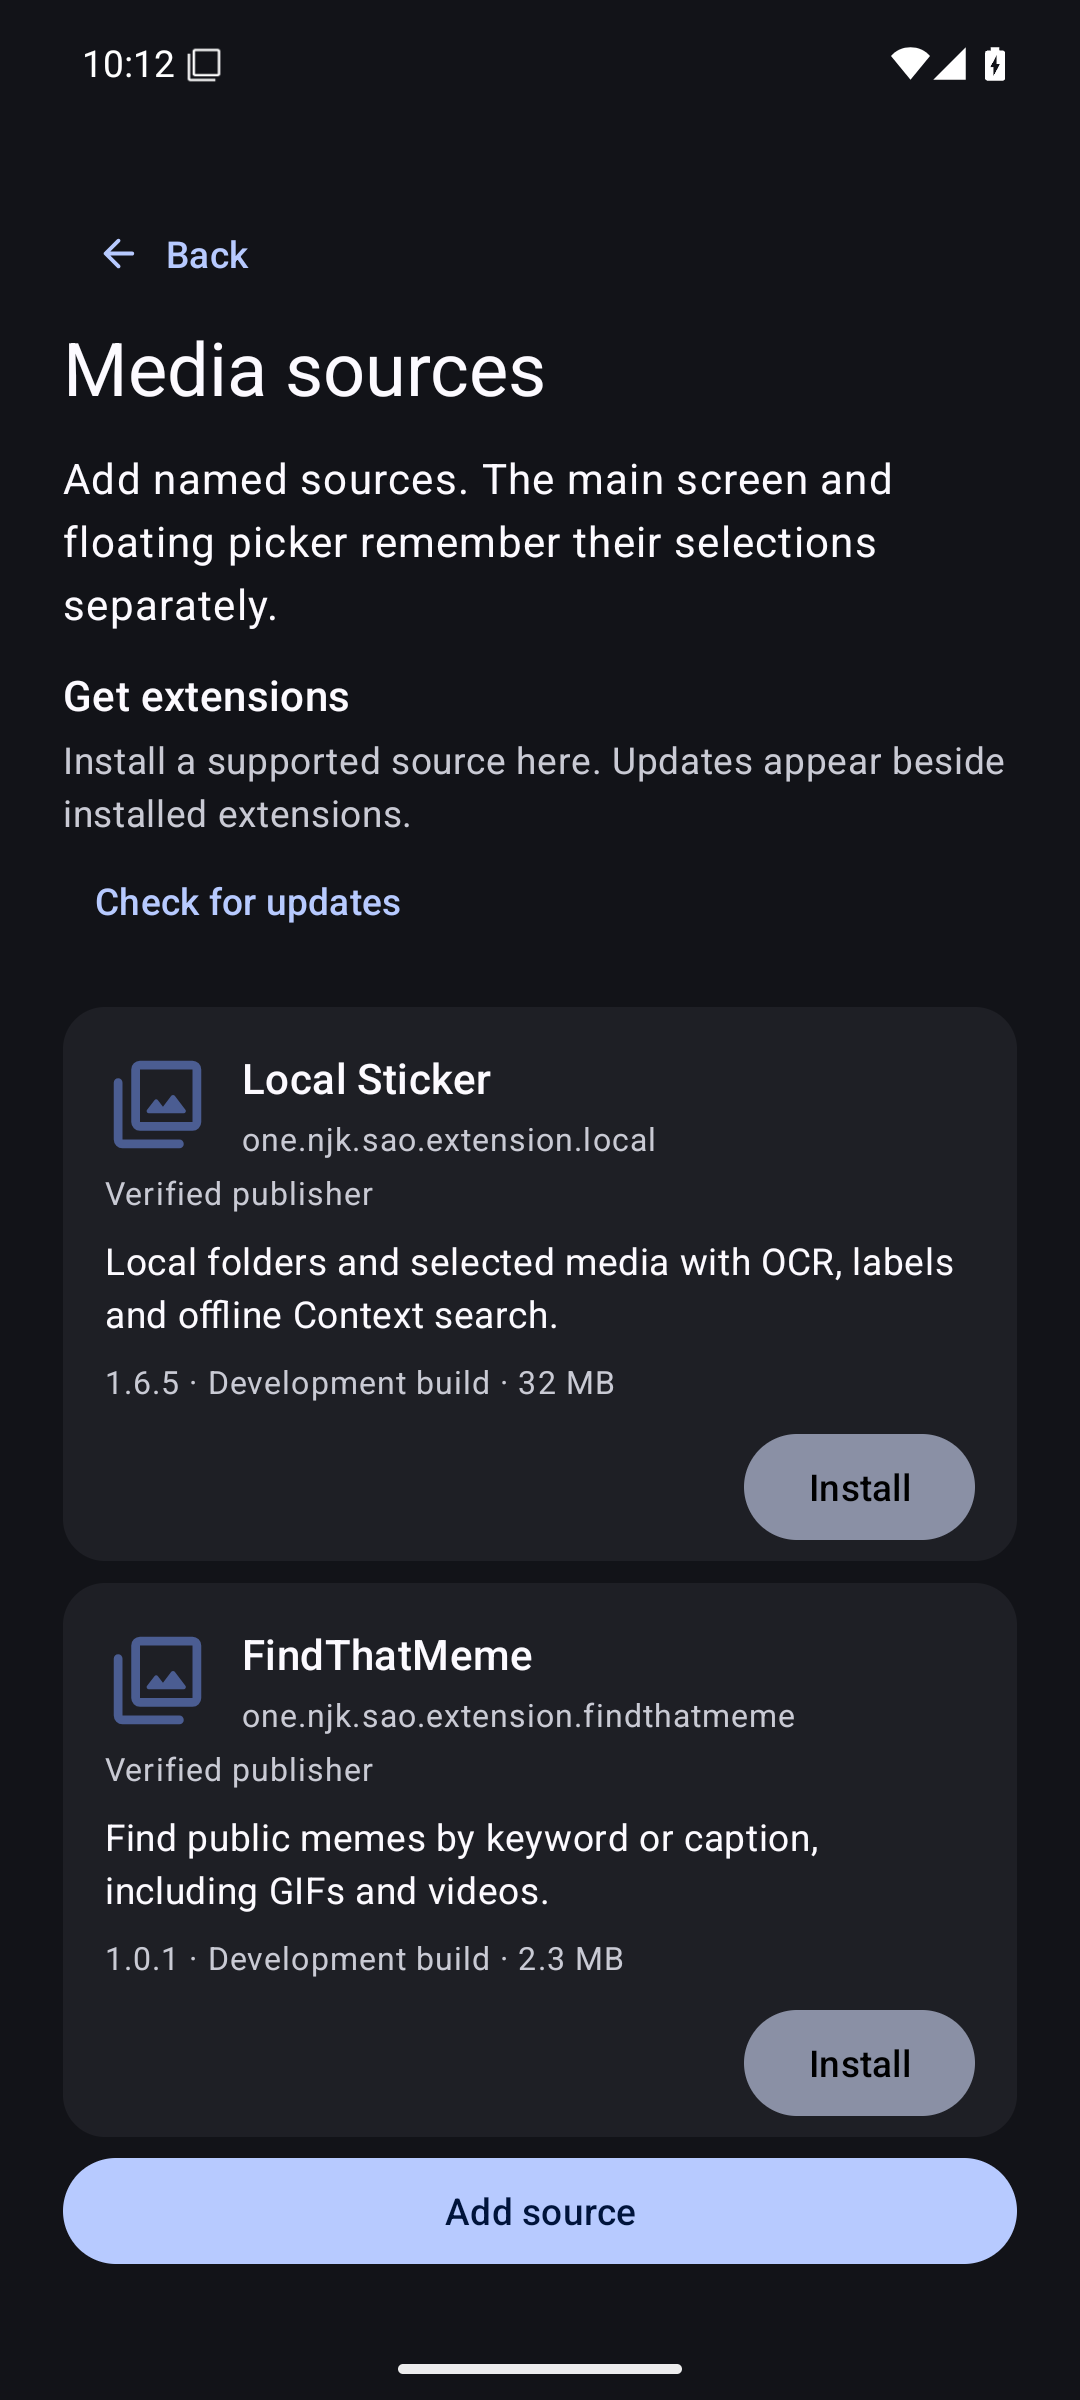
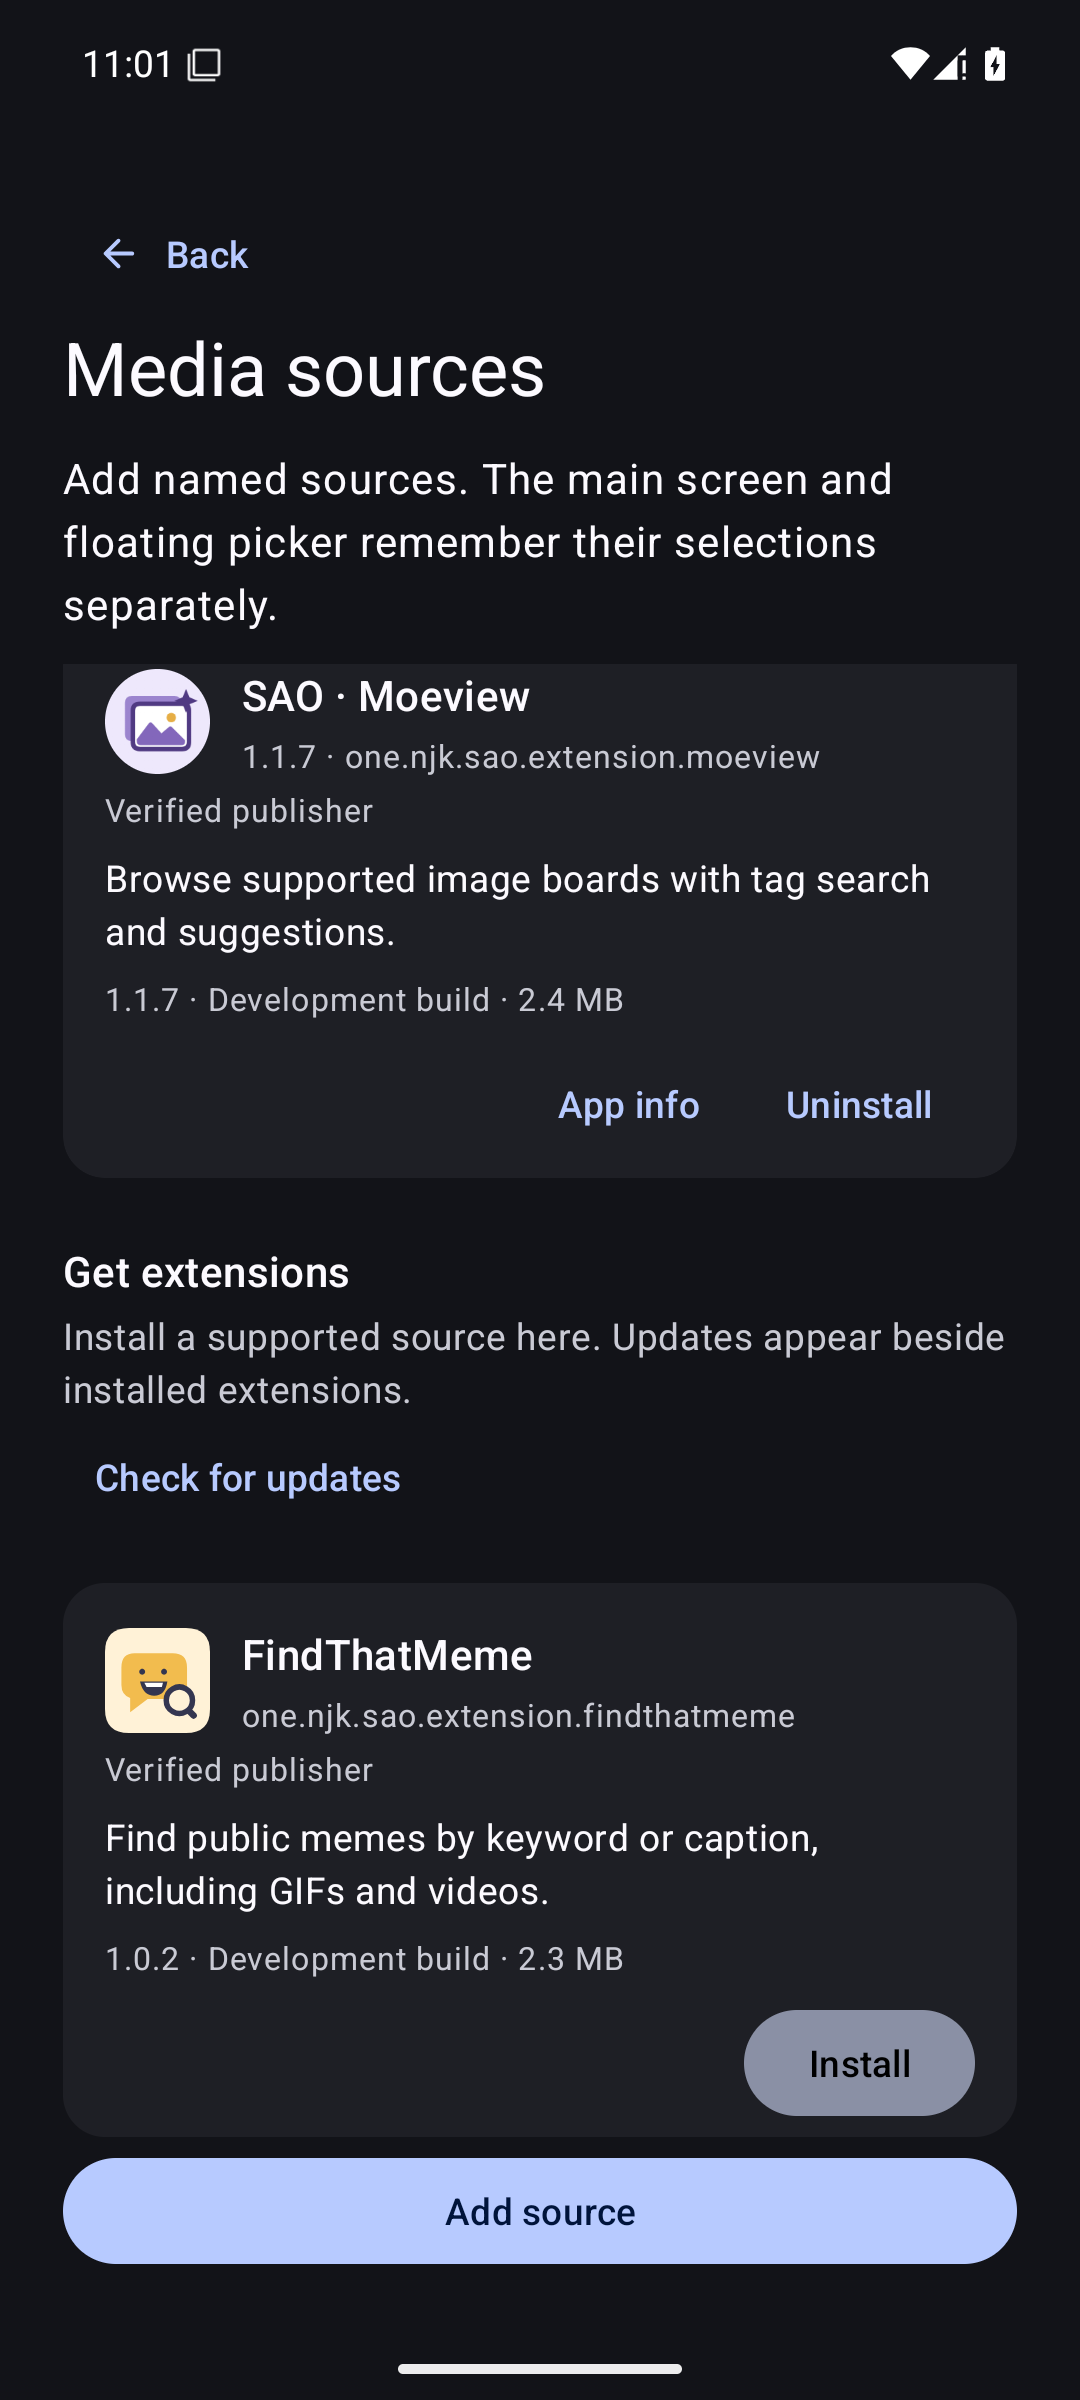
Refresh extension artwork by version and revalidate catalog checks

diff --git a/app/src/main/java/one/njk/sao/extensions/ExtensionInstallRows.kt b/app/src/main/java/one/njk/sao/extensions/ExtensionInstallRows.kt
@@ -95,7 +95,7 @@ internal class AvailableExtensionsAdapter(private val refresh: ()->Unit,private 
             }
             is Card -> {
                 val entry=requireNotNull(row.entry)
-                holder.bindIcon(entry.iconUrl)
+                holder.bindIcon(entry.iconUrl,entry.versionCode)
                 holder.binding.name.text=entry.name
                 holder.binding.details.text=entry.packageName
                 holder.binding.trustStatus.setText(R.string.source_trust_publisher)
@@ -114,14 +114,15 @@ internal class AvailableExtensionsAdapter(private val refresh: ()->Unit,private 
         private var iconUrl: String?=null
         private var request: Disposable?=null
         init { binding.icon.setImageDrawable(extensionIconPlaceholder(binding.icon)) }
-        fun bindIcon(url: String?) {
-            // Progress/state updates must not restart the same icon request.
-            if(iconUrl==url) return
+        fun bindIcon(url: String?,version: Long) {
+            // A published version refreshes artwork; progress/state rebinds reuse its request/cache.
+            val versionedUrl=url?.let { "$it?v=$version" }
+            if(iconUrl==versionedUrl) return
             clearIcon()
-            iconUrl=url
-            if(url==null) return
+            iconUrl=versionedUrl
+            if(versionedUrl==null) return
             val pixels=(40*binding.root.resources.displayMetrics.density).toInt().coerceIn(1,256)
-            request=loader.enqueue(ImageRequest.Builder(binding.root.context).data(url).size(pixels,pixels)
+            request=loader.enqueue(ImageRequest.Builder(binding.root.context).data(versionedUrl).size(pixels,pixels)
                 .decoderFactory(CatalogIconDecoder.factory(pixels))
                 .placeholder(binding.icon.drawable).error(binding.icon.drawable).target(binding.icon).build())
         }

diff --git a/app/src/androidTest/java/one/njk/sao/extensions/CatalogIconDeviceTest.kt b/app/src/androidTest/java/one/njk/sao/extensions/CatalogIconDeviceTest.kt
@@ -20,6 +20,25 @@ class CatalogIconDeviceTest {
             assertEquals(Color.rgb(75,93,146),bitmap.getPixel(48,48))
         } finally { bitmap.recycle() }
     }
+    @Test fun publishedArtworkDecodesThroughCoil(): Unit=runBlocking {
+        val app=androidx.test.platform.app.InstrumentationRegistry.getInstrumentation().targetContext
+        val files=java.io.File(app.cacheDir,"catalog-icon-fixtures").listFiles().orEmpty().filter { it.extension=="svg" }
+        org.junit.Assume.assumeTrue("Stage the built catalog SVGs in cache/catalog-icon-fixtures",files.isNotEmpty())
+        val loader=one.njk.sao.di.AppModule.provideImageLoader(app)
+        try {
+            for(file in files) {
+                val models=mutableListOf<Any>(file)
+                if(androidx.test.platform.app.InstrumentationRegistry.getArguments().getString("liveCatalogIcons")=="true")
+                    models+="https://raw.githubusercontent.com/nijuyonkadesu/SAO-extensions/repo/icons/${file.name}?artwork=1"
+                for(data in models) {
+                    val result=loader.execute(coil3.request.ImageRequest.Builder(app).data(data).size(105,105)
+                        .decoderFactory(CatalogIconDecoder.factory(105)).build())
+                    val error=(result as? coil3.request.ErrorResult)?.throwable
+                    assertTrue("$data: ${error?.stackTraceToString()}",result is coil3.request.SuccessResult)
+                }
+            }
+        } finally { loader.shutdown() }
+    }
     @Test fun oversizedIconsAndEntityDocumentsAreRejectedBeforeRendering(): Unit=runBlocking {
         for(text in listOf(" ".repeat(64*1024+1),"<!DOCTYPE svg [<!ENTITY x 'expansion'>]><svg>&x;</svg>")) {
             try { CatalogIconDecoder.decode(Buffer().writeUtf8(text),96); fail("Unsafe icon accepted") }

diff --git a/app/src/main/java/one/njk/sao/extensions/CatalogRepository.kt b/app/src/main/java/one/njk/sao/extensions/CatalogRepository.kt
@@ -23,7 +23,7 @@ class CatalogHttp internal constructor(private val client: OkHttpClient) {
         .connectTimeout(15,TimeUnit.SECONDS).readTimeout(30,TimeUnit.SECONDS).callTimeout(5,TimeUnit.MINUTES).build())
     internal suspend fun <T> receive(url: String, consume: suspend (InputStream,Long)->T): T = withContext(Dispatchers.IO) {
         coroutineScope {
-            val call=client.newCall(Request.Builder().url(url).build())
+            val call=client.newCall(Request.Builder().url(url).header("Cache-Control","no-cache").build())
             // Keep cancellation attached while reading the body, not only until headers arrive.
             val closer=launch(Dispatchers.Default,start=CoroutineStart.UNDISPATCHED) {
                 try { awaitCancellation() } finally { call.cancel() }

diff --git a/docs/extension-catalog.md b/docs/extension-catalog.md
@@ -12,11 +12,11 @@ The extension repository’s `main` branch contains source. Its small [`repo` br
 
 ## Catalog contract
 
-The fixed public [catalog URL](https://raw.githubusercontent.com/nijuyonkadesu/SAO-extensions/repo/index.json) uses schema version 1. Each extension has an ID, package name, name/description, numeric `versionCode`, display `versionName`, protocol `apiVersion`, `minSdk`, publisher certificate SHA-256, release channel and artifacts. Each artifact declares ABI (or universal), HTTPS release URL, byte size and SHA-256. Installed cards use Android’s package icon, loaded on IO with the package inventory. Available cards use the optional catalog SVG icon through the existing Coil cache and AndroidSVG dependency. Missing or invalid icons fall back to a themed source symbol. Only the official icon URL namespace is accepted, SVGs are bounded to 64 KiB and rendered at the small display size on IO, and entity declarations are rejected. Rebinding progress does not restart icon requests; recycling cancels them. Release links remain optional metadata.
+The fixed public [catalog URL](https://raw.githubusercontent.com/nijuyonkadesu/SAO-extensions/repo/index.json) uses schema version 1. Each extension has an ID, package name, name/description, numeric `versionCode`, display `versionName`, protocol `apiVersion`, `minSdk`, publisher certificate SHA-256, release channel and artifacts. Each artifact declares ABI (or universal), HTTPS release URL, byte size and SHA-256. Installed cards use Android’s package icon, loaded on IO with the package inventory. Available cards use the optional catalog SVG icon through the existing Coil cache and AndroidSVG dependency. Missing or invalid icons fall back to a themed source symbol. Only the official icon URL namespace is accepted, SVGs are bounded to 64 KiB and rendered at the small display size on IO, and entity declarations are rejected. First-party artwork comes from the extension APK vectors; the release tool exports those same paths/groups as small catalog SVGs, while Android receives adaptive and monochrome layers. [Preview and attribution](https://github.com/nijuyonkadesu/SAO-extensions#sao-extensions). Icon requests include the extension version so a newly published build refreshes the artwork without discarding other cached images. Rebinding progress does not restart icon requests; recycling cancels them. Release links remain optional metadata.
 
 Catalog distribution metadata is independent of source capabilities: the installed extension still negotiates search modes, paging, filters and imports through the existing Binder protocol. No provider-specific logic moved into SAO.
 
-The host reads the catalog once when opening Media sources. **Check for updates** explicitly refreshes it; a failed request offers Retry while installed sources remain usable. There is no background catalog polling, scheduled update job, automatic install, result cache or automatic download retry. Browsing media never starts an update check.
+The host reads the catalog once when opening Media sources. **Check for updates** explicitly refreshes it with HTTP revalidation; a failed request offers Retry while installed sources remain usable. There is no background catalog polling, scheduled update job, automatic install, result cache or automatic download retry. Browsing media never starts an update check.
 
 ## Download and installation
 
@@ -40,6 +40,6 @@ Upload `build/source-sdk/` artifacts to the matching `source-sdk-<version>` rele
 
 ## Validation
 
-Standalone debug/release builds and lint pass for all four sources; 57 extension JVM and 38 Android checks pass. Host validation includes 47 JVM checks and 41 Android checks covering browsing, media export, reverse uploads, extension settings and system controls. Catalog checks cover metadata validation, APK identity/checksum/signature/protocol, bounded retries, cancellation cleanup and compatibility policy. A real Android 15 install/update test downloaded published releases, exercised unknown-app permission, cancelled and retried an update, retained a saved FindThatMeme profile, and installed/discovered Moeview. Light/dark and large-text layouts were reviewed. [Screenshots](screenshots/README.md#extension-catalog-and-updates).
+Standalone debug/release builds and lint pass for all four sources; 57 extension JVM and 38 Android checks pass. Host validation includes 47 JVM checks and 42 Android checks covering browsing, media export, reverse uploads, extension settings and system controls. Catalog checks cover metadata validation, APK identity/checksum/signature/protocol, bounded retries, cancellation cleanup and compatibility policy. A real Android 15 install/update test downloaded published releases, exercised unknown-app permission, cancelled and retried an update, retained a saved FindThatMeme profile, and installed/discovered Moeview. Light/dark and large-text layouts were reviewed. [Screenshots](screenshots/README.md#extension-catalog-and-updates).
 
-Catalog Android tests accept a freshly built development FindThatMeme APK staged as `cache/catalog_fixture.apk` in the host’s private cache. For tests which exercise successful validation/download, that package must be absent or older on a disposable emulator; production rejects installing the same version. Missing/non-upgradable fixtures are skipped. The icon follow-up passes eight targeted Android checks, including bounded transparent SVG rendering, entity rejection, optional-icon URL policy, updater validation and installed-system controls; light/dark and 200% text were visually reviewed. Never uninstall an extension containing personal data for a test.
+Catalog Android tests accept a freshly built development FindThatMeme APK staged as `cache/catalog_fixture.apk` in the host’s private cache. For tests which exercise successful validation/download, that package must be absent or older on a disposable emulator; production rejects installing the same version. Missing/non-upgradable fixtures are skipped. The icon follow-up passes nine targeted Android checks, including bounded transparent SVG rendering, entity rejection, optional-icon URL policy, updater validation and installed-system controls; light/dark and 200% text were visually reviewed. Stage generated catalog SVGs in `cache/catalog-icon-fixtures` to exercise the real Coil decoder pipeline. Passing `liveCatalogIcons=true` additionally checks the four public GitHub icon URLs; it never queries media libraries. Never uninstall an extension containing personal data for a test.

diff --git a/docs/screenshots/README.md b/docs/screenshots/README.md
@@ -195,12 +195,12 @@ Only explicit Discord Paste / Attach over the free-tier threshold asks whether t
 
 Supported APKs build independently in [SAO-extensions](https://github.com/nijuyonkadesu/SAO-extensions). Media sources offers Install, Update, App info and Uninstall on the same page. These captures show public development releases, including a real FindThatMeme 1.0.0 → 1.0.1 update with a saved synthetic profile retained. Android owns permission and confirmation; cancelling leaves Update available. No personal credentials or media were used.
 
-<img src="extension-catalog-light.png" width="220" alt="Get extensions with catalog icons and Install actions for Local Sticker and FindThatMeme" /> <img src="extension-catalog-dark.png" width="220" alt="The same extension catalog in Material dark colors" />
+<img src="extension-catalog-light.png" width="220" alt="Installed Moeview and available FindThatMeme with distinct vector icons" /> <img src="extension-catalog-dark.png" width="220" alt="The same extension catalog in Material dark colors" />
 
 <img src="extension-update-light.png" width="220" alt="A newer FindThatMeme release offers Update beside App info and Uninstall" /> <img src="extension-update-dark.png" width="220" alt="Installed extension updates in Material dark colors" /> <img src="extension-update-confirmation.png" width="220" alt="Android confirms the FindThatMeme update before changing the installed APK" />
 
-Installed APK icons come from Android’s package inventory; available icons use the catalog SVGs. The existing app artwork is preserved. Icon requests use the shared image cache and survive progress rebinds.
+Installed APK icons come from Android’s package inventory; available icons use the catalog SVGs. First-party APKs now have distinct lightweight vector artwork: an adapted Immich flower and original Local Sticker, Moeview and FindThatMeme marks, plus Android adaptive/monochrome variants. [Artwork preview and attribution](https://github.com/nijuyonkadesu/SAO-extensions#sao-extensions). Icon requests use the shared image cache and survive progress rebinds.
 
-<img src="extension-installed-icons.png" width="220" alt="Installed Immich and Moeview cards display their Android app icons" />
+<img src="extension-installed-icons.png" width="220" alt="Installed Immich and Local Sticker cards display their new Android adaptive icons" />
 
 [200% text: extension actions wrap without clipping](extension-actions-large-text.png). [Catalog and validation details](../extension-catalog.md).
